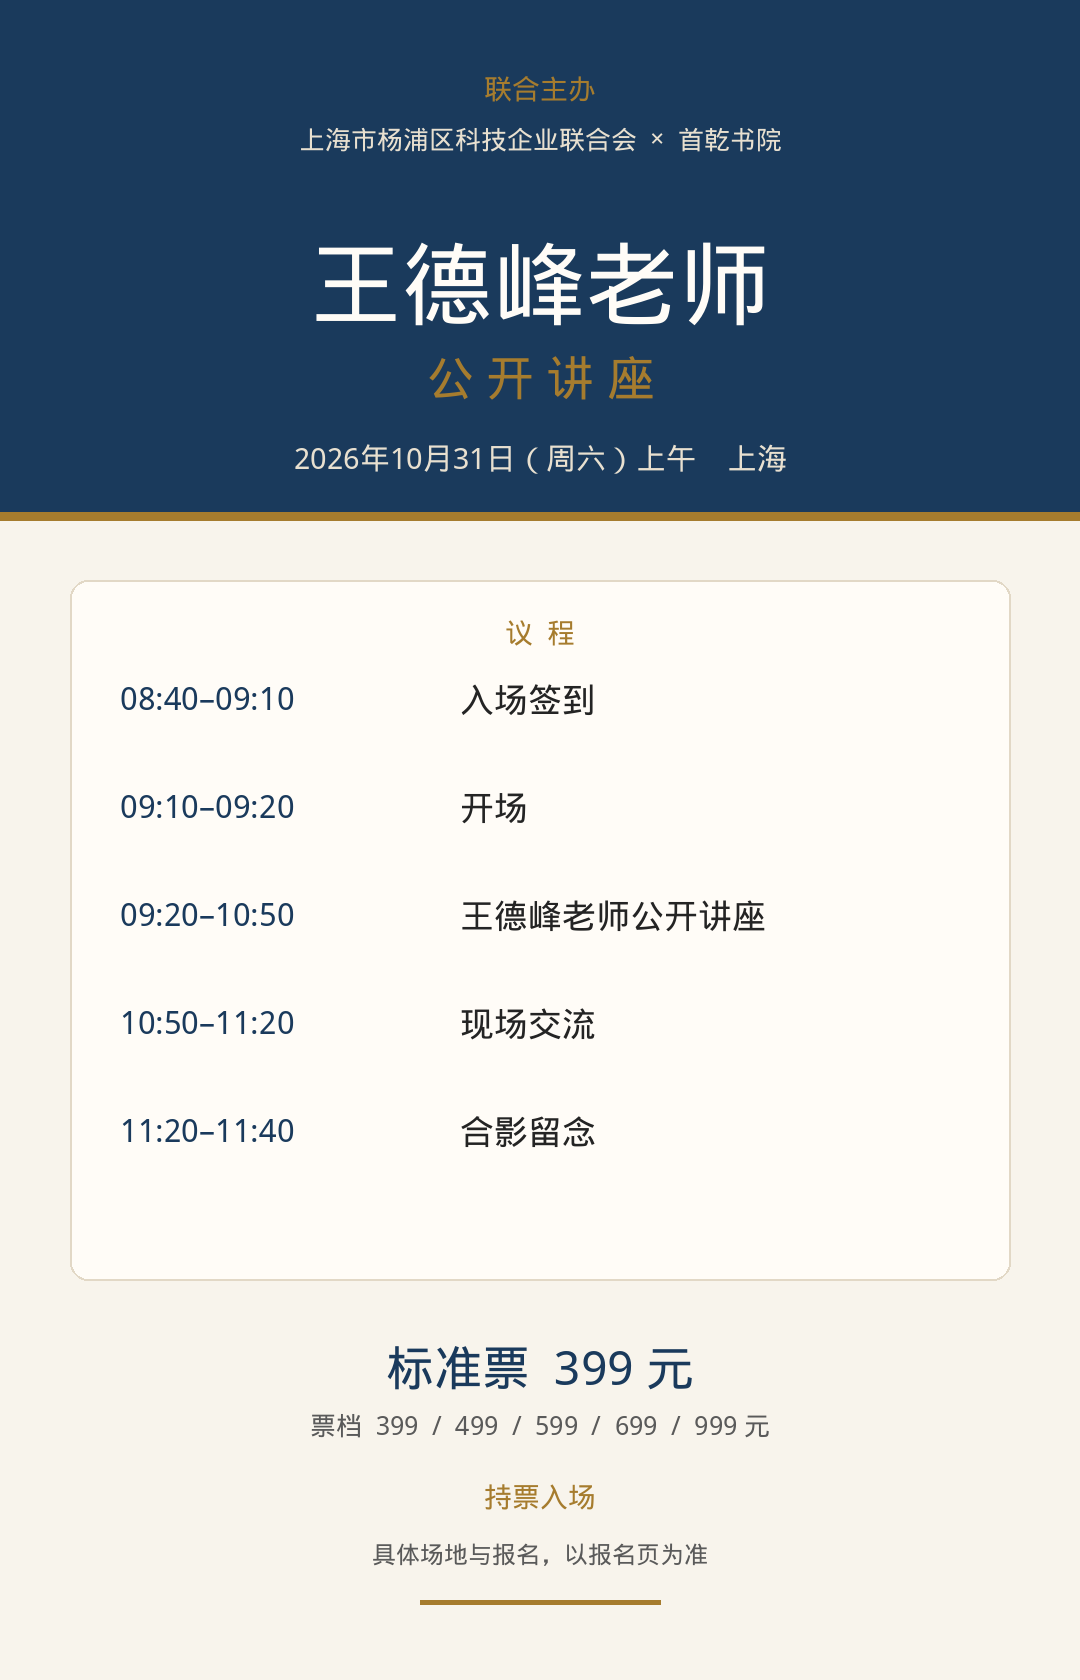
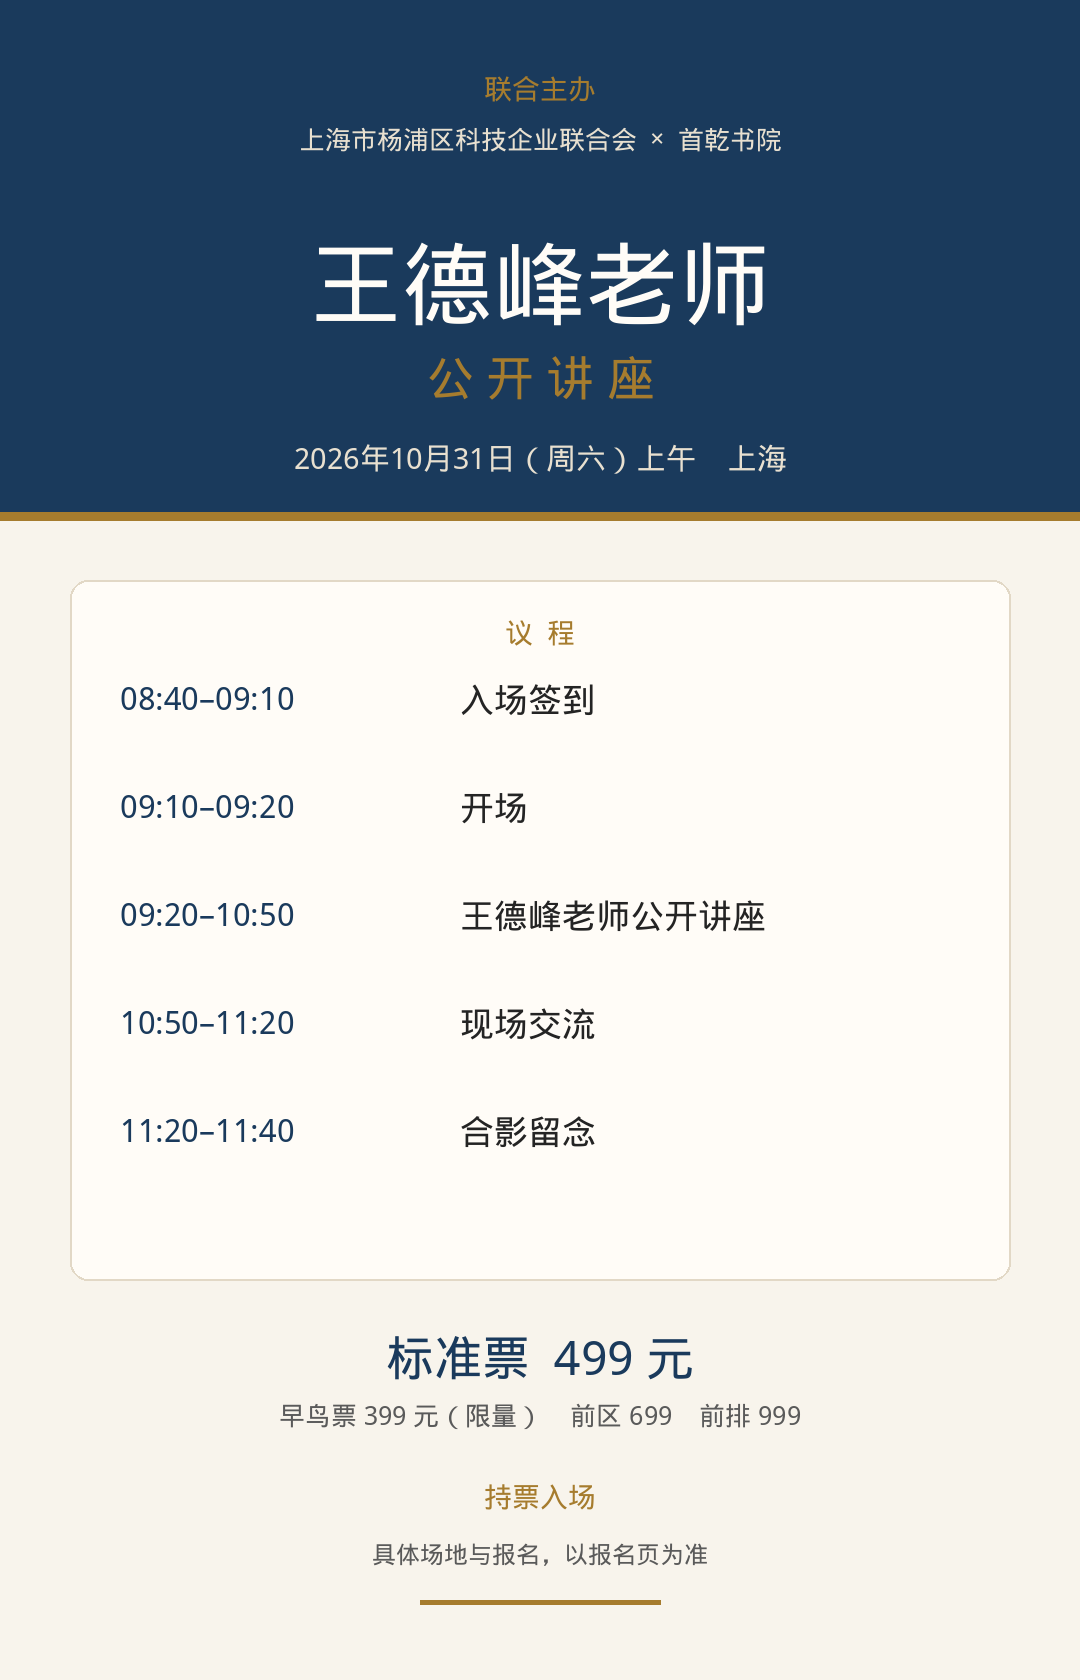
对外票价改成标准票 499 元的四档结构
早鸟 399 限量，前区 699，前排 999。去掉没有座位差别的 599 和 600。

Changed region(s): [[0.2444, 0.7738, 0.6417, 0.8667], [0.6417, 0.8357, 0.7333, 0.8667]]

diff --git a/scripts/generate_public_campaign.py b/scripts/generate_public_campaign.py
@@ -72,7 +72,7 @@ def build_doc():
             ["地点", "上海。具体场地以报名页为准"],
             ["形式", "线下公开讲座，一个主题，持票入场"],
             ["联合主办", "上海市杨浦区科技企业联合会、首乾书院"],
-            ["标准票", "399 元。票档为 399 / 499 / 599 / 699 / 999 元"],
+            ["标准票", "499 元。另有早鸟票 399 元（限量）、前区票 699 元、前排票 999 元"],
         ],
         [3.8, 12.6],
     )
@@ -106,8 +106,8 @@ def build_doc():
             ["08:40–09:10", "入场签到", "凭票入场，按票档分区就座"],
             ["09:10–09:20", "开场", "介绍到场嘉宾与本场安排"],
             ["09:20–10:50", "公开讲座", "王德峰老师主讲，约 90 分钟"],
-            ["10:50–11:20", "现场交流", "围绕讲座内容互动。前排票含提问资格"],
-            ["11:20–11:40", "合影留念", "有序合影。前排票含签名或合影"],
+            ["10:50–11:20", "现场交流", "围绕讲座内容互动。前排票可优先提问"],
+            ["11:20–11:40", "合影留念", "前排票在讲座结束后统一合影"],
         ],
         [3.6, 3.4, 9.4],
     )
@@ -117,11 +117,10 @@ def build_doc():
         doc,
         ["票档", "价格", "听众获得"],
         [
-            ["标准票", "399 元", "讲座正座，本场对外主价格"],
-            ["进阶票", "499 元", "讲座正座"],
-            ["优选票", "599 元", "讲座正座"],
+            ["早鸟票", "399 元", "与标准票同一座位区，限量，售完即止"],
+            ["标准票", "499 元", "讲座正座，本场对外主价格，数量最多"],
             ["前区票", "699 元", "前区座位"],
-            ["前排票", "999 元", "前排座位，并含提问、签名或合影中的一项"],
+            ["前排票", "999 元", "前两排。讲座结束后统一合影，现场可优先提问"],
         ],
         [3.2, 3.0, 10.2],
         emphasize_col=1,
@@ -181,7 +180,7 @@ def build_doc():
             "主标题：王德峰老师公开讲座",
             "时间地点：2026年10月31日（周六）上午　上海",
             "中部：上面这五段议程",
-            "价格：标准票 399 元",
+            "价格：标准票 499 元；早鸟票 399 元限量",
             "落款：持票入场　具体场地与报名以报名页为准",
         ],
     )
@@ -244,10 +243,10 @@ def build_poster():
         draw.text((460, row_y), title, font=_font(34), fill=ink)
         row_y += 108
 
-    y = 1340
-    _center(draw, "标准票  399 元", y, _font(48), navy, w)
-    y = 1410
-    _center(draw, "票档  399  /  499  /  599  /  699  /  999 元", y, _font(26), muted, w)
+    y = 1330
+    _center(draw, "标准票  499 元", y, _font(48), navy, w)
+    y = 1400
+    _center(draw, "早鸟票 399 元（限量）    前区 699    前排 999", y, _font(26), muted, w)
     y = 1480
     _center(draw, "持票入场", y, _font(28), gold, w)
     y = 1540

diff --git a/README.md b/README.md
@@ -11,7 +11,7 @@
 | `output/致赵海_8月29日沟通后合作路径确认.docx` | **可转发给赵海团队（一页 A4）**：公开场与系统课并行 |
 | `output/致赵海_按活动为主回复稿.txt` | **现用，发给赵海**：主推 10 月 31 日活动，不主推整课；续课群我做 |
 | `output/王德峰老师公开讲座_对外活动方案.docx` | **对外**：海报议程、票价、主办，可发给场地和合作方 |
-| `output/王德峰老师公开讲座_对外议程海报.png` | **对外海报**：议程与标准票 399 元 |
+| `output/王德峰老师公开讲座_对外议程海报.png` | **对外海报**：议程与标准票 499 元 |
 
 上一版「渠道费作附带」和 2399 专属场方案不要作为本次协议。
 
